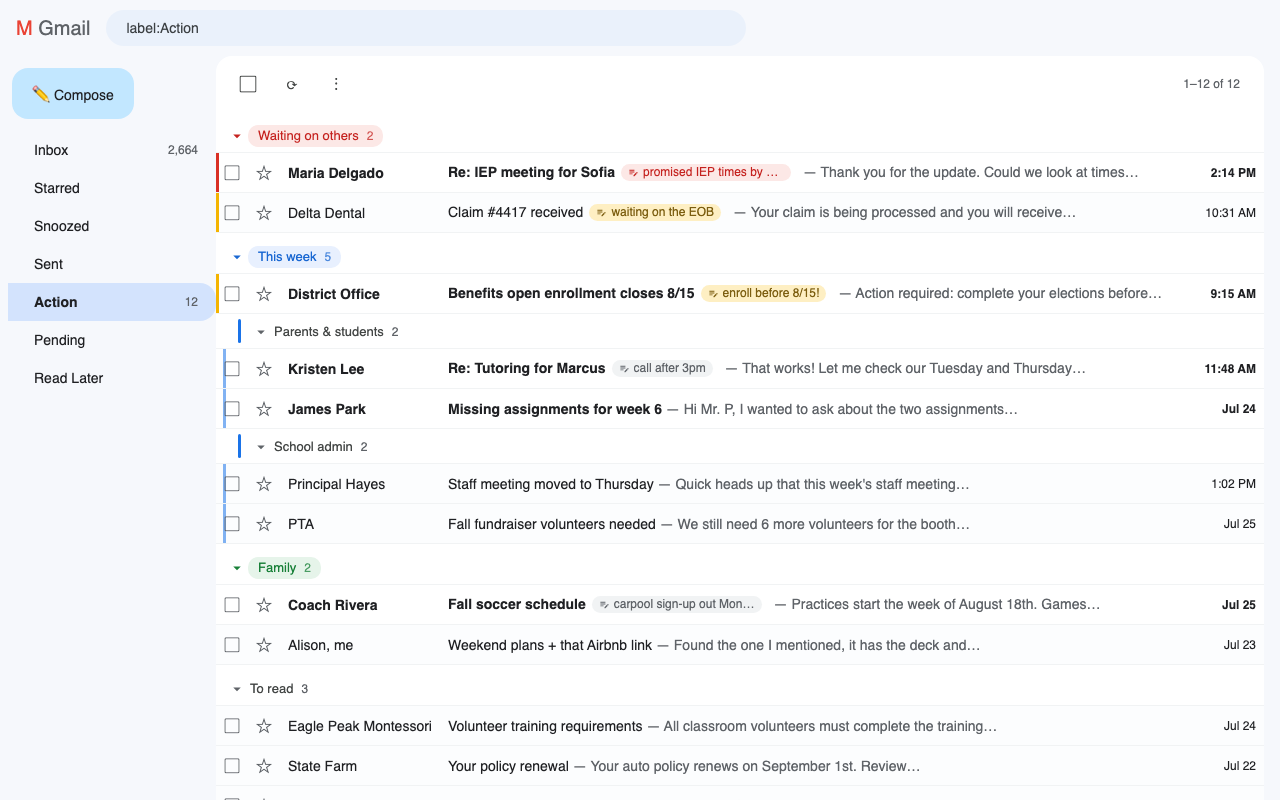
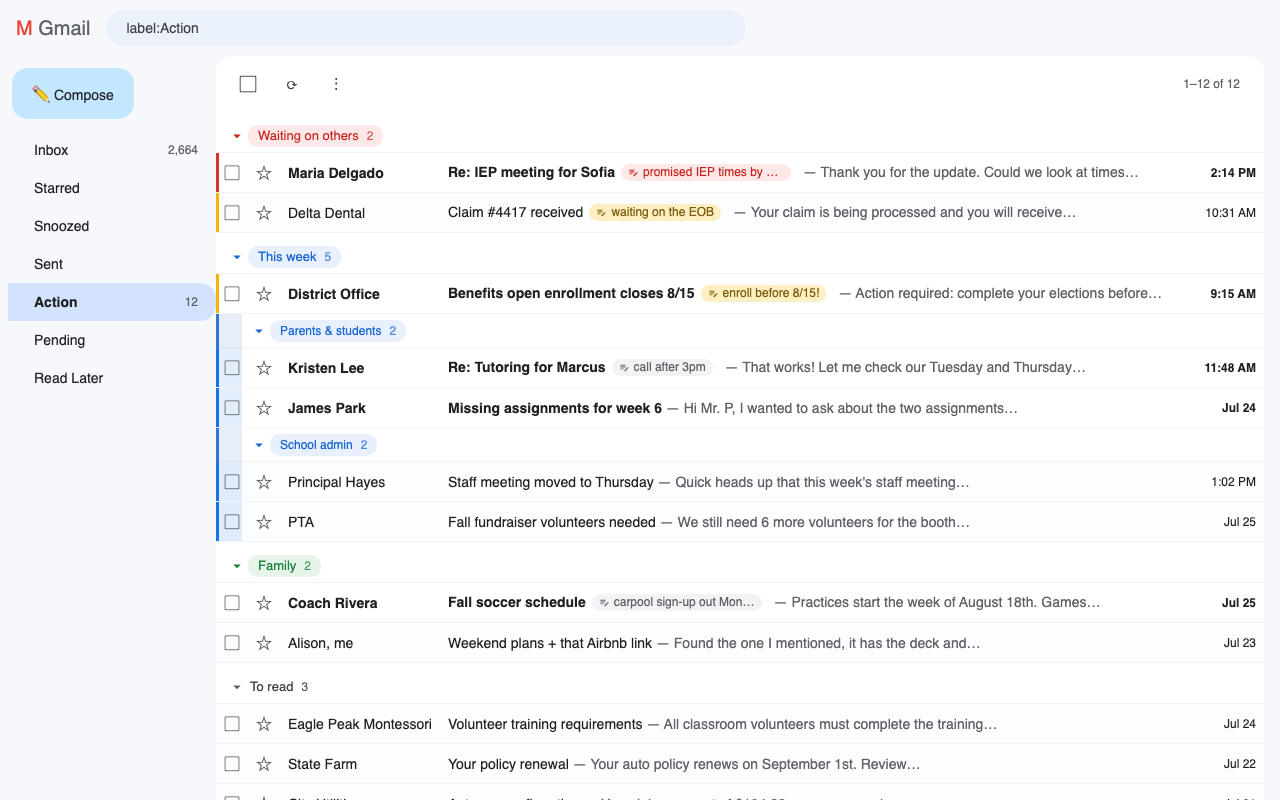
v0.34.0: sub-shelf redesign — compartments, not brackets
Fourth (and best) attempt at nested sub-shelves, per Greg's 'give it one
more shot before I demote it':
- A sub-shelf is now a real compartment: one continuous family-color
  channel (crisp 3px edge + soft inset panel) runs behind the sub-header
  AND its threads, so the whole thing reads as one contained block
- The parent's OWN direct threads get NO channel, so 'directly in This
  week' vs 'inside Parents & students' is unmistakable — kills the
  interleaving ambiguity that made the old version read as floating
- Sub-headers always wear a chip in the family color (own or parent's),
  smaller/quieter than a top-level shelf = a hierarchy of intensity, not
  two equal headers. Replaces the timid plain-text + hairline bracket
- Retired the faint 7-10px gradient side-wall and the ::before bracket
- Light + dark both verified; suite 34/34; after.png / hero regenerated

diff --git a/shelf.css b/shelf.css
@@ -82,13 +82,17 @@ tr.zA.shelf-rc-gray td.shelf-rc-cell {
 tr.zA.shelf-rc-yellow td.shelf-rc-cell {
   box-shadow: inset 3px 0 0 0 #f4b400;
 }
-/* sub-shelf side wall: rows inside a sub-shelf carry a soft rail in the
-   family color (sits at 7–10px, clear of the note edge at 0–3px) */
-tr.zA.shelf-subrail-gray td.shelf-rc-cell   { background-image: linear-gradient(to right, transparent 7px, rgba(128, 134, 139, 0.45) 7px, rgba(128, 134, 139, 0.45) 10px, transparent 10px); background-repeat: no-repeat; }
-tr.zA.shelf-subrail-yellow td.shelf-rc-cell { background-image: linear-gradient(to right, transparent 7px, rgba(244, 180, 4, 0.6) 7px, rgba(244, 180, 4, 0.6) 10px, transparent 10px); background-repeat: no-repeat; }
-tr.zA.shelf-subrail-red td.shelf-rc-cell    { background-image: linear-gradient(to right, transparent 7px, rgba(217, 48, 37, 0.55) 7px, rgba(217, 48, 37, 0.55) 10px, transparent 10px); background-repeat: no-repeat; }
-tr.zA.shelf-subrail-green td.shelf-rc-cell  { background-image: linear-gradient(to right, transparent 7px, rgba(24, 128, 56, 0.55) 7px, rgba(24, 128, 56, 0.55) 10px, transparent 10px); background-repeat: no-repeat; }
-tr.zA.shelf-subrail-blue td.shelf-rc-cell   { background-image: linear-gradient(to right, transparent 7px, rgba(26, 115, 232, 0.55) 7px, rgba(26, 115, 232, 0.55) 10px, transparent 10px); background-repeat: no-repeat; }
+/* sub-shelf compartment: rows inside a sub-shelf sit in a channel — a crisp
+   family-color edge (0–3px) plus a soft inset panel (3–26px) — so the whole
+   sub-shelf reads as one contained block, continuous with its header's channel.
+   A parent's OWN threads get no channel, so "directly in This week" vs "inside
+   Parents & students" is unmistakable. */
+tr.zA[class*="shelf-subrail-"] td.shelf-rc-cell { background-repeat: no-repeat; }
+tr.zA.shelf-subrail-gray td.shelf-rc-cell   { background-image: linear-gradient(to right, #9aa0a6 0, #9aa0a6 3px, rgba(128,134,139,0.11) 3px, rgba(128,134,139,0.11) 26px, transparent 26px); }
+tr.zA.shelf-subrail-yellow td.shelf-rc-cell { background-image: linear-gradient(to right, #f4b400 0, #f4b400 3px, rgba(244,180,4,0.13) 3px, rgba(244,180,4,0.13) 26px, transparent 26px); }
+tr.zA.shelf-subrail-red td.shelf-rc-cell    { background-image: linear-gradient(to right, #d93025 0, #d93025 3px, rgba(217,48,37,0.12) 3px, rgba(217,48,37,0.12) 26px, transparent 26px); }
+tr.zA.shelf-subrail-green td.shelf-rc-cell  { background-image: linear-gradient(to right, #188038 0, #188038 3px, rgba(24,128,56,0.12) 3px, rgba(24,128,56,0.12) 26px, transparent 26px); }
+tr.zA.shelf-subrail-blue td.shelf-rc-cell   { background-image: linear-gradient(to right, #1a73e8 0, #1a73e8 3px, rgba(26,115,232,0.12) 3px, rgba(26,115,232,0.12) 26px, transparent 26px); }
 /* drop target: the section becomes the "shelf" the thread slides onto —
    tinted, with a solid plank line underneath */
 tr.shelf-header.shelf-drop .shelf-h {
@@ -112,28 +116,48 @@ body.shelf-thread-drag tr.shelf-header:not(.shelf-drop) .shelf-h {
 tr.zA.shelf-hidden {
   display: none !important;
 }
-/* sub-shelves indent under their parent and hang from a "bracket" rail;
-   the rail takes the family color (parent's, or the child's own) */
+/* a sub-shelf header is the top of its compartment: the same family-color
+   channel runs behind it (crisp edge + soft panel), the chip is indented past
+   the channel and rendered a touch smaller/quieter than a top-level shelf, so
+   the eye reads a hierarchy of intensity, not two equal headers. */
 tr.shelf-header.shelf-sub .shelf-h {
   position: relative;
-  padding-left: 36px;
-  padding-top: 6px;
+  padding-left: 34px;
+  padding-top: 5px;
 }
 tr.shelf-header.shelf-sub .shelf-h::before {
   content: '';
   position: absolute;
-  left: 22px;
-  top: 5px;
-  bottom: 5px;
-  width: 3px;
-  border-radius: 2px;
-  background: #dadce0;
+  left: 0;
+  top: 0;
+  bottom: -1px;
+  width: 26px;
+  background: linear-gradient(to right, currentColor 0, currentColor 3px, transparent 3px);
+  opacity: 0.9;
 }
-tr.shelf-header.shelf-sub.shelf-rail-yellow .shelf-h::before { background: #f4b400; }
-tr.shelf-header.shelf-sub.shelf-rail-red .shelf-h::before    { background: #d93025; }
-tr.shelf-header.shelf-sub.shelf-rail-green .shelf-h::before  { background: #188038; }
-tr.shelf-header.shelf-sub.shelf-rail-blue .shelf-h::before   { background: #1a73e8; }
-tr.shelf-header.shelf-sub.shelf-rail-gray .shelf-h::before   { background: #80868b; }
+tr.shelf-header.shelf-sub.shelf-rail-yellow .shelf-h { color: #f4b400; }
+tr.shelf-header.shelf-sub.shelf-rail-red .shelf-h    { color: #d93025; }
+tr.shelf-header.shelf-sub.shelf-rail-green .shelf-h  { color: #188038; }
+tr.shelf-header.shelf-sub.shelf-rail-blue .shelf-h   { color: #1a73e8; }
+tr.shelf-header.shelf-sub.shelf-rail-gray .shelf-h   { color: #9aa0a6; }
+/* the soft inset panel behind the sub-header, matching the thread channel */
+tr.shelf-header.shelf-sub.shelf-rail-yellow .shelf-h::after,
+tr.shelf-header.shelf-sub.shelf-rail-red .shelf-h::after,
+tr.shelf-header.shelf-sub.shelf-rail-green .shelf-h::after,
+tr.shelf-header.shelf-sub.shelf-rail-blue .shelf-h::after,
+tr.shelf-header.shelf-sub.shelf-rail-gray .shelf-h::after {
+  content: '';
+  position: absolute;
+  left: 3px;
+  top: 0;
+  bottom: -1px;
+  width: 23px;
+  background: currentColor;
+  opacity: 0.11;
+}
+/* sub-header chip: smaller and quieter than a top-level colored shelf */
+tr.shelf-header.shelf-sub .shelf-h-pill { padding: 1px 8px; }
+tr.shelf-header.shelf-sub .shelf-name { font-size: 12px; }
 .shelf-mi-sub {
   padding-left: 34px;
 }
@@ -1037,12 +1061,12 @@ html.shelf-dark .shelf-h {
 html.shelf-dark tr.shelf-header td {
   border-bottom-color: rgba(255, 255, 255, 0.08);
 }
-html.shelf-dark tr.shelf-header.shelf-sub .shelf-h::before { background: #5f6368; }
-html.shelf-dark tr.shelf-header.shelf-sub.shelf-rail-yellow .shelf-h::before { background: #fdd663; }
-html.shelf-dark tr.shelf-header.shelf-sub.shelf-rail-red .shelf-h::before    { background: #f28b82; }
-html.shelf-dark tr.shelf-header.shelf-sub.shelf-rail-green .shelf-h::before  { background: #81c995; }
-html.shelf-dark tr.shelf-header.shelf-sub.shelf-rail-blue .shelf-h::before   { background: #8ab4f8; }
-html.shelf-dark tr.shelf-header.shelf-sub.shelf-rail-gray .shelf-h::before   { background: #9aa0a6; }
+/* dark: the channel uses currentColor, so recolor the sub-header per family */
+html.shelf-dark tr.shelf-header.shelf-sub.shelf-rail-yellow .shelf-h { color: #fdd663; }
+html.shelf-dark tr.shelf-header.shelf-sub.shelf-rail-red .shelf-h    { color: #f28b82; }
+html.shelf-dark tr.shelf-header.shelf-sub.shelf-rail-green .shelf-h  { color: #81c995; }
+html.shelf-dark tr.shelf-header.shelf-sub.shelf-rail-blue .shelf-h   { color: #8ab4f8; }
+html.shelf-dark tr.shelf-header.shelf-sub.shelf-rail-gray .shelf-h   { color: #9aa0a6; }
 html.shelf-dark .shelf-chevron svg,
 html.shelf-dark .shelf-more svg,
 html.shelf-dark .shelf-btn svg,
@@ -1089,11 +1113,11 @@ html.shelf-dark .shelf-chip.shelf-c-yellow,
 html.shelf-dark .shelf-note-strip.shelf-c-yellow { background: rgba(253, 214, 99, 0.15); color: #fdd663; }
 html.shelf-dark .shelf-tip.shelf-c-yellow { background: #4c4738; color: #fdd663; }
 html.shelf-dark tr.zA.shelf-rc-yellow td.shelf-rc-cell { box-shadow: inset 3px 0 0 0 #fdd663; }
-html.shelf-dark tr.zA.shelf-subrail-gray td.shelf-rc-cell   { background-image: linear-gradient(to right, transparent 7px, rgba(154, 160, 166, 0.5) 7px, rgba(154, 160, 166, 0.5) 10px, transparent 10px); }
-html.shelf-dark tr.zA.shelf-subrail-yellow td.shelf-rc-cell { background-image: linear-gradient(to right, transparent 7px, rgba(253, 214, 99, 0.5) 7px, rgba(253, 214, 99, 0.5) 10px, transparent 10px); }
-html.shelf-dark tr.zA.shelf-subrail-red td.shelf-rc-cell    { background-image: linear-gradient(to right, transparent 7px, rgba(242, 139, 130, 0.5) 7px, rgba(242, 139, 130, 0.5) 10px, transparent 10px); }
-html.shelf-dark tr.zA.shelf-subrail-green td.shelf-rc-cell  { background-image: linear-gradient(to right, transparent 7px, rgba(129, 201, 149, 0.5) 7px, rgba(129, 201, 149, 0.5) 10px, transparent 10px); }
-html.shelf-dark tr.zA.shelf-subrail-blue td.shelf-rc-cell   { background-image: linear-gradient(to right, transparent 7px, rgba(138, 180, 248, 0.5) 7px, rgba(138, 180, 248, 0.5) 10px, transparent 10px); }
+html.shelf-dark tr.zA.shelf-subrail-gray td.shelf-rc-cell   { background-image: linear-gradient(to right, #9aa0a6 0, #9aa0a6 3px, rgba(154,160,166,0.12) 3px, rgba(154,160,166,0.12) 26px, transparent 26px); }
+html.shelf-dark tr.zA.shelf-subrail-yellow td.shelf-rc-cell { background-image: linear-gradient(to right, #fdd663 0, #fdd663 3px, rgba(253,214,99,0.13) 3px, rgba(253,214,99,0.13) 26px, transparent 26px); }
+html.shelf-dark tr.zA.shelf-subrail-red td.shelf-rc-cell    { background-image: linear-gradient(to right, #f28b82 0, #f28b82 3px, rgba(242,139,130,0.13) 3px, rgba(242,139,130,0.13) 26px, transparent 26px); }
+html.shelf-dark tr.zA.shelf-subrail-green td.shelf-rc-cell  { background-image: linear-gradient(to right, #81c995 0, #81c995 3px, rgba(129,201,149,0.13) 3px, rgba(129,201,149,0.13) 26px, transparent 26px); }
+html.shelf-dark tr.zA.shelf-subrail-blue td.shelf-rc-cell   { background-image: linear-gradient(to right, #8ab4f8 0, #8ab4f8 3px, rgba(138,180,248,0.13) 3px, rgba(138,180,248,0.13) 26px, transparent 26px); }
 html.shelf-dark .shelf-sw-sel {
   box-shadow: 0 0 0 2px #2d2e31, 0 0 0 4px #8ab4f8;
 }

diff --git a/content.js b/content.js
@@ -2948,8 +2948,11 @@
         if (!parentCollapsed) {
           const h = headerFor(label, s.id);
           h.classList.toggle('shelf-sub', !!asChild);
-          for (const c of NOTE_COLORS) h.classList.toggle('shelf-rail-' + c, railC === c && railC !== 'gray');
-          updateHeader(h, s.name, total, s.collapsed, false, s.c);
+          for (const c of NOTE_COLORS) h.classList.toggle('shelf-rail-' + c, asChild && railC === c);
+          // a sub-header always wears a chip in the family color (its own, or
+          // the parent's) so it reads as a contained compartment, never a
+          // weaker floating header
+          updateHeader(h, s.name, total, s.collapsed, false, asChild ? railC : s.c);
           seq.push(h);
         }
         const hideRows = parentCollapsed || !!s.collapsed;
